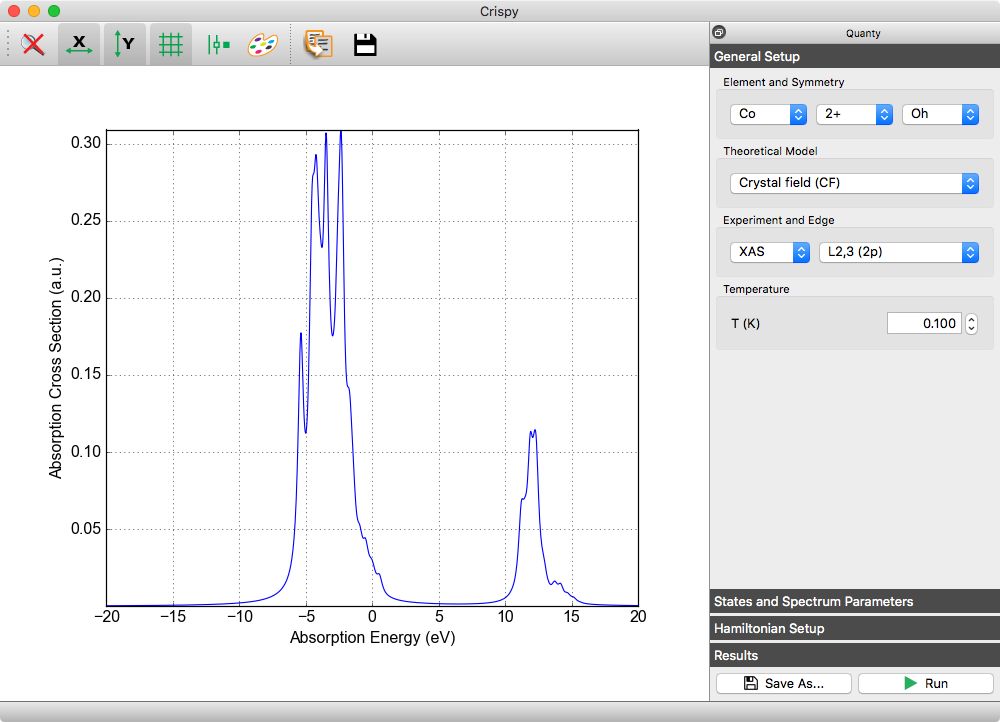
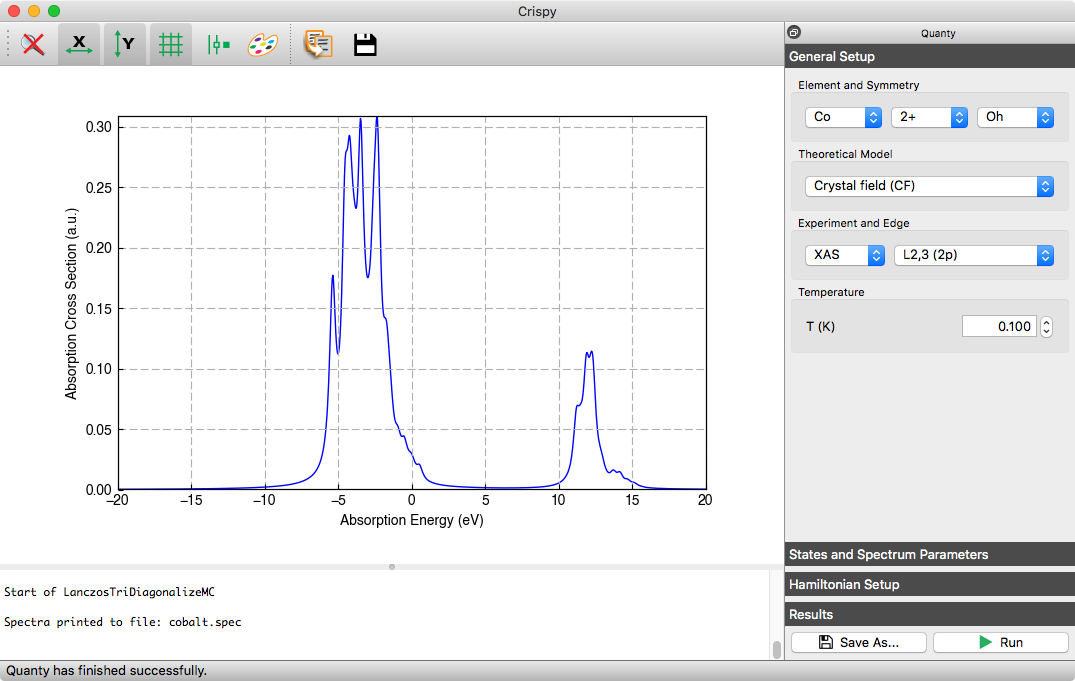
Make the code compatible with Python 2.7

diff --git a/crispy/gui/quanty.py b/crispy/gui/quanty.py
@@ -1,11 +1,16 @@
 # coding: utf-8
 
+from __future__ import (absolute_import, division, print_function,
+                        unicode_literals)
+
 import collections
 import copy
 import json
 import numpy as np
 import os
 import shutil
+import subprocess
+import sys
 import uuid
 
 from PyQt5.QtCore import QItemSelectionModel, QProcess, Qt, QPoint
@@ -40,7 +45,6 @@ class QuantyDockWidget(QDockWidget):
         'baseName': None,
         'input': None,
         'inputName': None,
-        'command': None,
         }
 
     def __init__(self):
@@ -305,9 +309,9 @@ class QuantyDockWidget(QDockWidget):
         try:
             with open(path) as p:
                 template = p.read()
-        except FileNotFoundError:
+        except IOError:
             self.parent().statusBar().showMessage(
-                    'Could not find template: {0:s}'.format(self.template))
+                    'Could not find template: {0:s}'.format(self.templateName))
             return
 
         self.getUiParameters()
@@ -401,14 +405,19 @@ class QuantyDockWidget(QDockWidget):
             self.saveInput()
 
     def runCalculation(self):
-        # Determine the location of the executable program.
-        self.command = shutil.which('Quanty') or shutil.which('Quanty.exe')
+        if 'win32' in sys.platform:
+            self._command = 'Quanty.exe'
+        else:
+            self._command = 'Quanty'
 
-        if not self.command:
-            self.parent().statusBar().showMessage(
-                'Could not find Quanty. Please install '
-                'it and set the PATH environment variable')
-            return
+        with open(os.devnull, 'w') as f:
+            try:
+                subprocess.call(self._command, stdout=f, stderr=f)
+            except:
+                self.parent().statusBar().showMessage(
+                    'Could not find Quanty. Please install '
+                    'it and set the PATH environment variable')
+                return
 
         # Write the input file to disk.
         self.saveInput()
@@ -420,7 +429,7 @@ class QuantyDockWidget(QDockWidget):
         self._process.readyReadStandardOutput.connect(self.handleLogging)
         self._process.readyReadStandardError.connect(self.handleLogging)
 
-        self._process.start(self.command, (self.inputName, ))
+        self._process.start(self._command, (self.inputName, ))
 
         self._process.waitForReadyRead()
         self._process.finished.connect(self.processCalculation)
@@ -428,9 +437,8 @@ class QuantyDockWidget(QDockWidget):
         self.parent().statusBar().showMessage('Running Quanty...')
 
     def handleLogging(self):
-        output = self._process.readAll()
-        self.parent().loggerWidget.appendPlainText(
-                str(output, encoding='utf-8'))
+        data = self._process.readAll().data()
+        self.parent().loggerWidget.appendPlainText(data.decode('utf-8'))
 
     def processCalculation(self):
         self.parent().statusBar().showMessage(

diff --git a/setup.py b/setup.py
@@ -25,7 +25,7 @@
 # ###########################################################################*/
 
 __authors__ = ['Marius Retegan']
-__date__ = '13/09/2016'
+__date__ = '19/10/2016'
 __license__ = 'MIT'
 
 import os
@@ -54,8 +54,10 @@ def get_version():
 
 def main():
     """The main entry point."""
-    if sys.version_info[0] < 3:
-        sys.exit('crispy currently requires Python 3.4+')
+    if sys.version_info < (2, 7):
+        sys.exit('crispy requires at least Python 2.7')
+    elif sys.version_info[0] == 3 and sys.version_info < (3, 4):
+        sys.exit('crispy requires at least Python 3.4')
 
     kwargs = dict(
         name='crispy',
@@ -97,6 +99,7 @@ def main():
             'Operating System :: MacOS :: MacOS X',
             'Operating System :: Microsoft :: Windows',
             'Operating System :: POSIX :: Linux',
+            'Programming Language :: Python :: 2.7',
             'Programming Language :: Python :: 3.4',
             'Programming Language :: Python :: 3.5',
             'Topic :: Scientific/Engineering :: Visualization',
@@ -104,7 +107,7 @@ def main():
         )
 
     # At the moment pip/setuptools doesn't play nice with shebang paths
-    # containing white space.
+    # containing white spaces.
     # See: https://github.com/pypa/pip/issues/2783
     #      https://github.com/xonsh/xonsh/issues/879
     # The most straight forward workaround is to have a .bat script to run

diff --git a/crispy/gui/main.py b/crispy/gui/main.py
@@ -1,5 +1,8 @@
 # coding: utf-8
 
+from __future__ import (absolute_import, division, print_function,
+                        unicode_literals)
+
 from PyQt5.QtCore import Qt
 from PyQt5.QtWidgets import QMainWindow, QDockWidget
 from PyQt5.QtGui import QFontDatabase
@@ -13,7 +16,7 @@ from ..resources import resourceFileName
 class MainWindow(QMainWindow):
 
     def __init__(self):
-        super().__init__()
+        super(MainWindow, self).__init__()
         uiPath = resourceFileName('gui/uis/main.ui')
         loadUi(uiPath, baseinstance=self, package='crispy.gui')
 
@@ -27,7 +30,8 @@ class MainWindow(QMainWindow):
         self.quantyDockWidget = QuantyDockWidget()
         self.addDockWidget(Qt.RightDockWidgetArea, self.quantyDockWidget)
         self.quantyDockWidget.setVisible(True)
-        self.quantyRunCalculationAction.triggered.connect(print)
+        self.quantyRunCalculationAction.triggered.connect(
+            self.quantyDockWidget.runCalculation)
         self.quantySaveInputAction.triggered.connect(
             self.quantyDockWidget.saveInput)
         self.quantySaveAsInputAction.triggered.connect(

diff --git a/crispy/resources/__init__.py b/crispy/resources/__init__.py
@@ -52,6 +52,8 @@ of this modules to ensure access accross different distribution schemes:
              options={'py2app': {'packages': ['crispy']}}
              )
 """
+from __future__ import (absolute_import, division, print_function,
+                        unicode_literals)
 
 __authors__ = ['V.A. Sole', 'Thomas Vincent']
 __license__ = 'MIT'

diff --git a/crispy/__main__.py b/crispy/__main__.py
@@ -1,10 +1,11 @@
 # coding: utf-8
 
+from __future__ import (absolute_import, division, print_function,
+                        unicode_literals)
+
+
 def main():
     import sys
-    import logging
-
-    logging.basicConfig(level=logging.WARNING)
 
     from PyQt5.QtCore import Qt
     from PyQt5.QtWidgets import QApplication

diff --git a/crispy/gui/models/treemodel.py b/crispy/gui/models/treemodel.py
@@ -1,5 +1,8 @@
 # coding: utf-8
 
+from __future__ import (absolute_import, division, print_function,
+                        unicode_literals)
+
 import collections
 
 from PyQt5.QtCore import Qt, QAbstractItemModel, QModelIndex

diff --git a/crispy/gui/models/listmodel.py b/crispy/gui/models/listmodel.py
@@ -1,5 +1,8 @@
 # coding: utf-8
 
+from __future__ import (absolute_import, division, print_function,
+                        unicode_literals)
+
 from PyQt5.QtCore import Qt, QAbstractListModel, QModelIndex
 
 

diff --git a/crispy/gui/views/treeview.py b/crispy/gui/views/treeview.py
@@ -1,5 +1,8 @@
 # coding: utf-8
 
+from __future__ import (absolute_import, division, print_function,
+                        unicode_literals)
+
 from PyQt5.QtWidgets import QTreeView
 
 

diff --git a/crispy/gui/widgets/combobox.py b/crispy/gui/widgets/combobox.py
@@ -1,5 +1,8 @@
 # coding: utf-8
 
+from __future__ import (absolute_import, division, print_function,
+                        unicode_literals)
+
 from PyQt5.QtWidgets import QComboBox
 
 

diff --git a/crispy/gui/widgets/plotwidget.py b/crispy/gui/widgets/plotwidget.py
@@ -1,5 +1,8 @@
 # coding: utf-8
 
+from __future__ import (absolute_import, division, print_function,
+                        unicode_literals)
+
 from silx.gui.plot import PlotWindow
 
 

diff --git a/README.rst b/README.rst
@@ -1,6 +1,5 @@
 crispy
 ======
-
 Crispy is a graphical user interface written in `Python <https://www.python.org/>`_ that facilitates the simulation of core-level spectra. The interface provides a set of tools to generate input files, submit calculations, and analyze the results obtained with programs such as `Quanty <http://quanty.org>`_ and `ORCA <https://orcaforum.cec.mpg.de>`_ (planned). It has a modular design and can be run on Mac OS X, Linux, Windows platforms.
 
 .. image:: doc/screenshot.png
@@ -10,14 +9,14 @@ Dependencies
 Crispy depends on the following Python packages:
 
 * `PyQt5 <https://riverbankcomputing.com/software/pyqt/intro>`_
-* `numpy <http://www.numpy.org>`_
-* `silx <https://github.com/silx-kit/silx>`_
+* `numpy <http://numpy.org>`_
+* `silx <https://silx.org>`_
 
 Instalation
 -----------
 The easiest way to install crispy is to use the installers provided on the `releases <https://github.com/mretegan/crispy/releases>`_ page; currently these are only available for Windows. While being simple to use, the installers are not updated very frequently, and might lack newly implemented features. 
 
-If you want to use the latest development version, you have to build crispy from source. For this a working Python 3.5 (or newer) installation is required. On Linux, Python can be installed using the system's package manager (``apt-get``, ``dnf``, ``pacman``, etc.). On Mac OS X and Windows, you can install Python using the `official <https://www.python.org/downloads>`_ installers.
+If you want to use the latest development version, you have to build crispy from source. For this a working Python 2.7 or 3.4+ installation is required. On Linux, Python can be installed using the system's package manager (``apt-get``, ``dnf``, ``pacman``, etc.). On Mac OS X and Windows, you can install Python using the `official <https://www.python.org/downloads>`_ installers.
 
 After the installation, the remaining dependencies can be installed using ``pip``::
 
@@ -46,11 +45,10 @@ This is a binary file created during the installation and should be available if
 
     python path_to_crispy/scripts/crispy
 
-You can also started crispy without installing it by going to the source directory and executing::
+You can also started crispy without installing it by going to the source directory and executing (currently only working with Python 3.4+)::
 
     python -m crispy
 
 License
 -------
-
 The source code of crispy is licensed under the MIT license.
